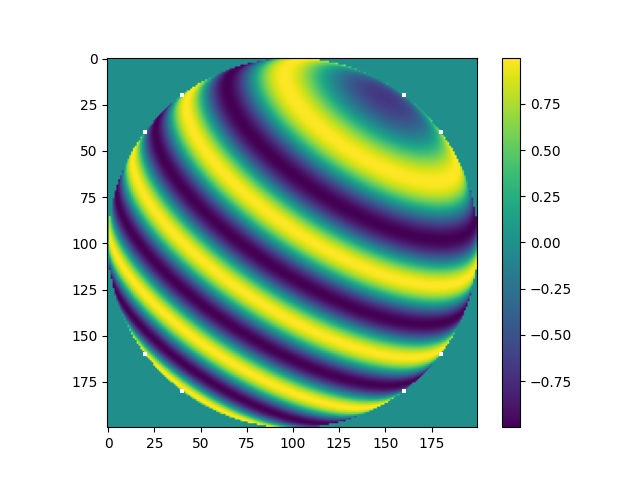
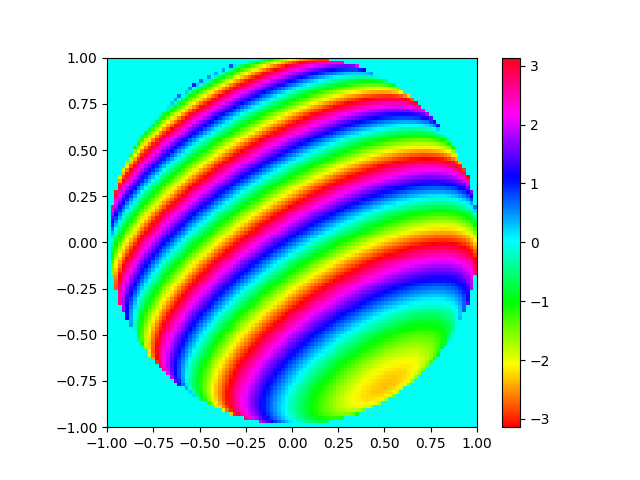
Weitergearbeitet

diff --git a/func.py b/func.py
@@ -3,20 +3,24 @@ import numpy as np
 def array_transfer_vector(u,v,frequency):
 
     positions=1/100 * np.array([[-1.808, -2.39,-0.44],    [3.398,2.163,-2.385],\
-                        [-5.648, 6.876,  3.928],  [-1.789, -9.256, -1.255],\
-                        [5.752,  3.134,  4.559],  [-2.467, -4.962, -6.543],\
-                        [4.058,  -4.927, 2.834],  [-4.684, 3.996,  -6.812],\
-                        [-7.206, 0.592,  -0.005], [-5.375, -3.333, 6.708],\
-                        [0.729,  8.731,  0.717],  [-2.037, 2.156,  4.846],\
-                        [7.092,  -4.499, -3.317], [-7.178, -5.793, -1.598],\
-                        [-0.674, -7.188, 6.603],  [0.333,  7.047,  -5.119]])
-    data_transfer_vector = np.zeros((16,))
+                                [-5.648, 6.876,  3.928],  [-1.789, -9.256, -1.255],\
+                                [5.752,  3.134,  4.559],  [-2.467, -4.962, -6.543],\
+                                [4.058,  -4.927, 2.834],  [-4.684, 3.996,  -6.812],\
+                                [-7.206, 0.592,  -0.005], [-5.375, -3.333, 6.708],\
+                                [0.729,  8.731,  0.717],  [-2.037, 2.156,  4.846],\
+                                [7.092,  -4.499, -3.317], [-7.178, -5.793, -1.598],\
+                                [-0.674, -7.188, 6.603],  [0.333,  7.047,  -5.119]])
+
+
+    data_transfer_vector = np.zeros((16,),dtype=complex)
     w = np.sqrt(1 - u**2 - v**2)
 
 
     for n in range(0,16):
-        data_transfer_vector[n] = np.exp(1j * 2.0  * np.pi * (frequency / 343 ) * np.array([u,v,w]).T @ positions[n])
-
+        out = np.exp(1j * 2.0  * np.pi * (frequency / 343.0) * np.array([u,v,w]) @ positions[n])
+        data_transfer_vector[n] = out
+        # print(out)
+    # print(data_transfer_vector)
     return data_transfer_vector
 
 def array_factor(u,v,frequency):
@@ -25,3 +29,26 @@ def array_factor(u,v,frequency):
 def broadband_beamforming(u,v, Z : np.array, freq_bins:np.array):
     BF = np.sum([abs(array_transfer_vector(u,v,freq_bins[k]).conj().T @ Z[:,k])**2 for k in range(200)], axis = 0)
     return BF
+
+def doa_estimator(steps, Z, freq_bins):
+    bf = [(u,v,broadband_beamforming(u,v,Z, freq_bins)) for v in np.arange(-1, 1, 1/steps) for u in np.arange(-1, 1, 1/steps) if u**2 + v**2 <1]
+    maximum = max(bf ,key = lambda a: a[2])
+
+    u = maximum[0]
+    v = maximum[1]
+    w = np.sqrt(1 - u**2 - v**2)
+
+    print(u,v)
+    # azimuth_angle = np.arctan(u/w)
+    # elevation_angle = np.arcsin(v)
+
+    elevation_angle = np.arccos(w)
+    azimuth_angle = np.arcsin(u/elevation_angle)
+
+    if azimuth_angle < 0:
+        azimuth_angle = 2*np.pi + azimuth_angle
+
+    if elevation_angle < 0:
+        elevation_angle = 2*np.pi + elevation_angle
+
+    return (azimuth_angle,elevation_angle)

diff --git a/Ex7.py b/Ex7.py
@@ -1,0 +1,41 @@
+from scipy.io import wavfile
+import matplotlib.pyplot as plt
+import numpy as np
+from tqdm import tqdm
+from func import broadband_beamforming
+from func import doa_estimator
+
+data_dict = {}
+fourier_channel_dict = {}
+data_dict_second = {}
+
+sample_rate = wavfile.read("Data/Preprocessed_UAV_1.wav")[0]
+
+N = 400
+
+freq_bins = np.fft.fftfreq(N, 1/sample_rate)[:200]
+
+doas = []
+
+for n in tqdm(range(0,16)):
+    data_dict[n] = wavfile.read("Data/Preprocessed_UAV_" + str(n+1) + ".wav")[-1]
+for second in tqdm(range(100)):
+    for n in range(16):
+        data_dict_second[n] = data_dict[n][192000 * second:192000 *(second+1)]
+
+        fourier_channel_dict[n] = np.fft.fft(data_dict_second[n],N)[0:200]
+
+    fourier_channel_matrix = np.array(list(fourier_channel_dict.values()))
+
+    steps = 10
+
+    doa = doa_estimator(steps,fourier_channel_matrix,freq_bins)
+
+    doas.append((np.rad2deg(doa[0]),np.rad2deg(doa[1])))
+
+plt.scatter(list(range(100)), [ a[0] for a in doas])
+plt.show()
+plt.savefig("doa_azimuth.png")
+plt.scatter(list(range(100)), [ a[1] for a in doas])
+plt.show()
+plt.savefig("doa_elevation.png")

diff --git a/Ex6.py b/Ex6.py
@@ -3,6 +3,7 @@ import matplotlib.pyplot as plt
 import numpy as np
 from tqdm import tqdm
 from func import broadband_beamforming
+from func import doa_estimator
 
 data_dict = {}
 fourier_channel_dict = {}
@@ -23,21 +24,8 @@ freq_bins = np.fft.fftfreq(N, 1/sample_rate)[:200]
 
 
 
-steps = 50
+steps = 10
 
-u_v_array = np.zeros((2 * steps, 2 * steps))
+doa = doa_estimator(steps,fourier_channel_matrix,freq_bins)
 
-for u in tqdm(range(-steps,steps)):
-    for v in range(-steps,steps):
-        if (u/steps)**2 + (v/steps)**2 < 1:
-            u_v_array[u+steps][v+steps] = broadband_beamforming(u/steps,v/steps,fourier_channel_matrix, freq_bins)
-
-extend = [-1,1,-1,1]
-
-u_v_array = np.flip(u_v_array,axis = 1)
-
-plt.clf()
-im = plt.imshow(u_v_array.T,extent = extend,cmap = "hsv")
-plt.colorbar(im)
-plt.savefig("broadband_beamforming_heatmap.png")
-plt.show()
+print(np.rad2deg(doa[0]),np.rad2deg(doa[1]))

diff --git a/Ex3.py b/Ex3.py
@@ -7,19 +7,23 @@ from func import array_transfer_vector
 
 
 
-steps = 100
+steps = 50
 
 u_v_arrays = [np.zeros((2 * steps, 2 * steps)) for _ in range(16)]
 
 for u in tqdm(range(-steps,steps)):
     for v in range(-steps,steps):
-        if (u/steps)**2 + (v/steps)**2 <= 1:
+        if (u/steps)**2 + (v/steps)**2 < 1:
             for i,ret in enumerate(array_transfer_vector(u/steps,v/steps,9000)):
-                u_v_arrays[i][u+steps][v+steps] = ret
+                u_v_arrays[i][u+steps][v+steps] = np.angle(ret)
+
+u_v_arrays = [np.flip(u_v_array,axis = 0) for u_v_array in u_v_arrays]
+
+extend = [-1,1,-1,1]
 
 for i in range(0,16):
     plt.clf()
-    im = plt.imshow(u_v_arrays[i])
+    im = plt.imshow(u_v_arrays[i],extent = extend,cmap = "hsv")
     plt.colorbar(im)
     plt.savefig("array_transfer_vector_heatmap" + str(i+1) + ".png")
     plt.show()

diff --git a/Ex4.py b/Ex4.py
@@ -11,13 +11,17 @@ steps = 100
 
 u_v_array = np.zeros((2 * steps, 2 * steps))
 
-for u in tqdm(range(-steps,steps)):
-    for v in range(-steps,steps):
-        if (u/steps)**2 + (v/steps)**2 <= 1:
-            u_v_array[u+steps][v+steps] = array_factor(u/steps,v/steps,9000)
+for u in tqdm(np.arange(-1,1,1/steps)):
+    for v in np.arange(-1,1,1/steps):
+        if(u**2 + v**2 < 1):
+            u_v_array[int((u+1)*steps)][int((v+1)*steps)]= np.absolute(array_factor(u,v,9000))
+
+extend = [-1,1,-1,1]
+
+u_v_array = np.flip(u_v_array,axis = 0)
 
 plt.clf()
-im = plt.imshow(u_v_array)
+im = plt.imshow(u_v_array,extent = extend,cmap = "hsv")
 plt.colorbar(im)
 plt.savefig("array_factor_heatmap.png")
 plt.show()
